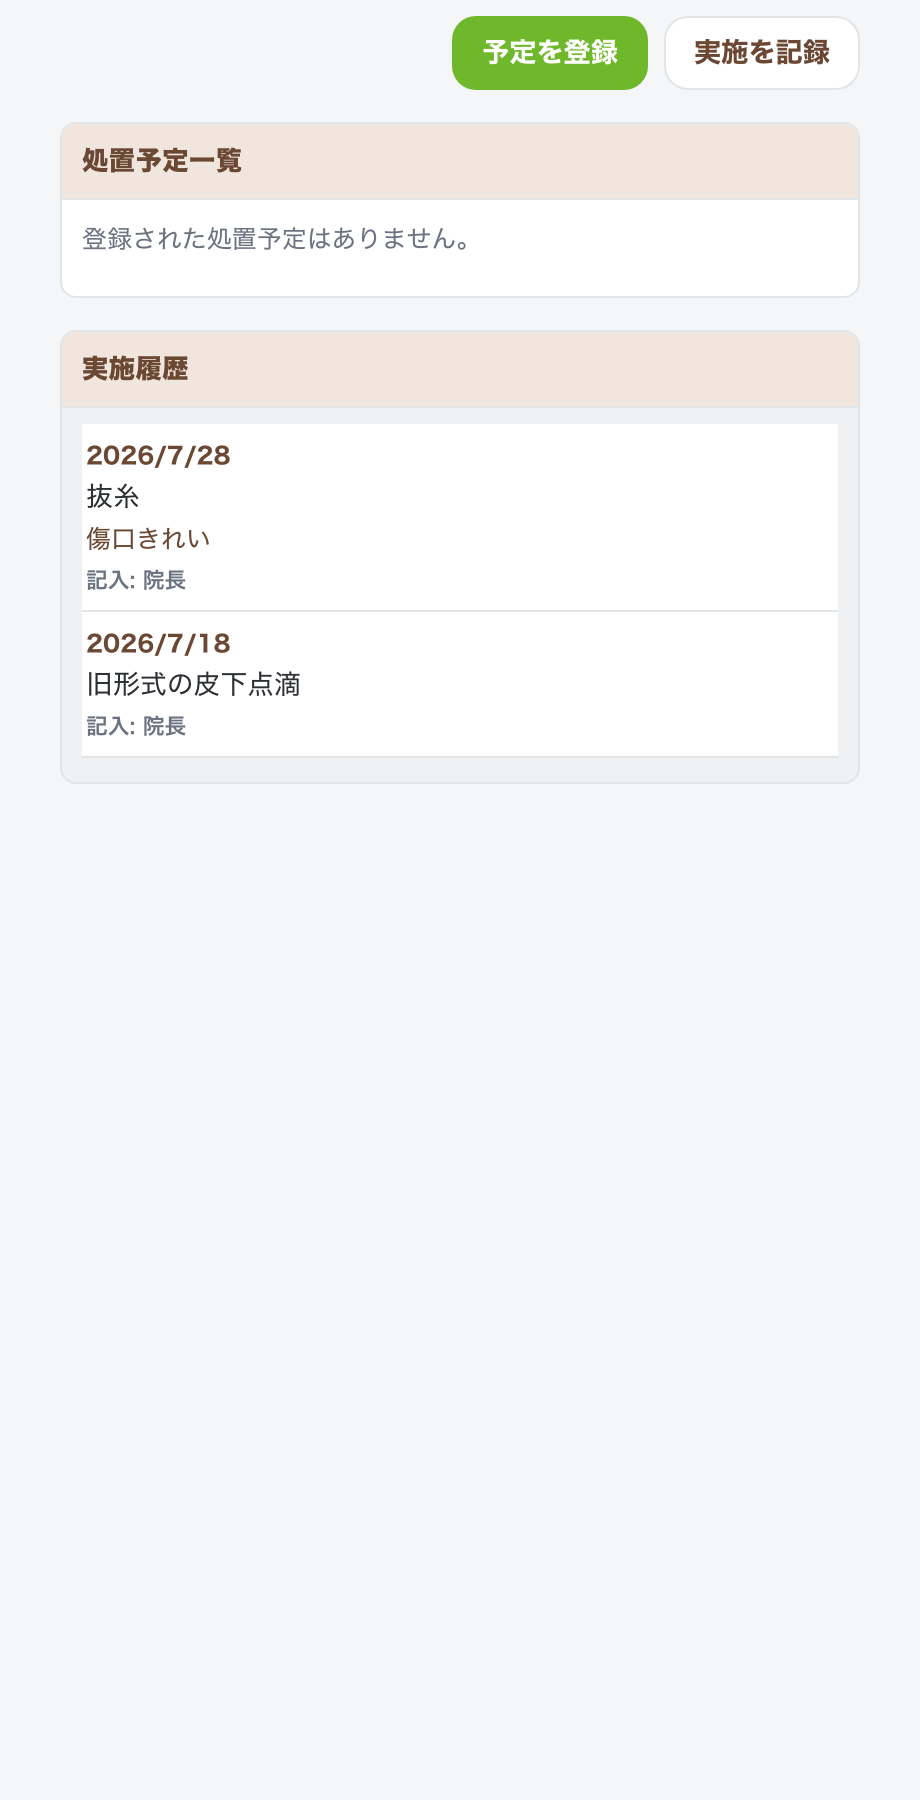
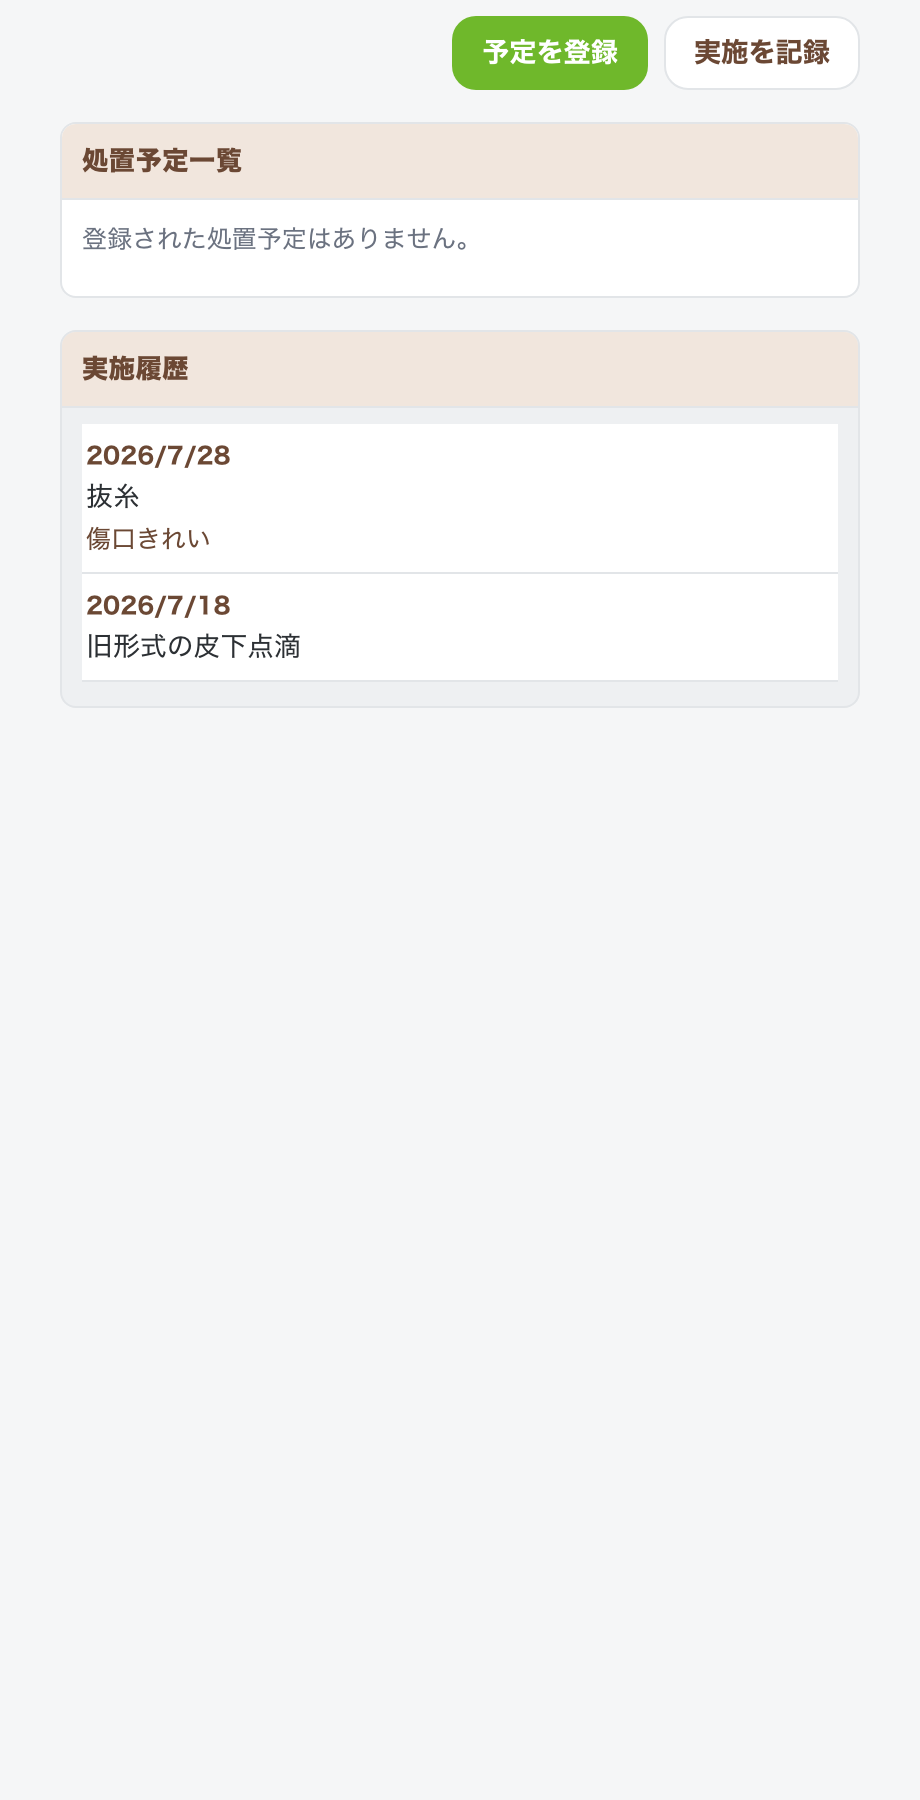
処置の実施記録から記入者の選択・保存をやめる。

Changed region(s): [[0.0913, 0.3111, 0.3348, 0.4044]]

diff --git a/js/procedures-ui.js b/js/procedures-ui.js
@@ -19,11 +19,6 @@ import {
 } from "./exam-plan-ui.js";
 import { enableRowGestures } from "./row-gestures.js";
 
-const AUTHORS = [
-  "院長", "大辻", "川邉", "齋藤", "横井", "德永",
-  "種田", "竹内", "神子島", "大澤", "川合", "嶋本", "道野",
-];
-
 const DAYS_PER_MONTH = 30;
 const DAYS_PER_WEEK = 7;
 const INTERVAL_UNITS = [
@@ -36,7 +31,6 @@ let deps = {
   showToast: () => {},
   showError: () => {},
   setBusy: () => {},
-  getSelectedAuthor: () => "",
 };
 
 const state = {
@@ -47,7 +41,6 @@ const state = {
   editingHistoryId: null,
   editingHistoryStore: "history",
   editingPlanId: null,
-  modalAuthor: "",
   syncingDueFromRelative: false,
   dueRelativeUnit: "day",
   dueRelativeValue: 0,
@@ -81,8 +74,6 @@ const histModalTitle = document.getElementById("procedure-modal-title");
 const histDate = document.getElementById("procedure-date");
 const histContent = document.getElementById("procedure-content");
 const histNote = document.getElementById("procedure-note");
-const histAuthorRow = document.getElementById("procedure-author-row");
-const histAuthorHint = document.getElementById("procedure-author-hint");
 const histError = document.getElementById("procedure-error");
 const btnHistSave = document.getElementById("btn-procedure-save");
 const btnHistCancel = document.getElementById("btn-procedure-cancel");
@@ -102,13 +93,6 @@ function ymdFromStr(dateStr) {
   const [y, m, d] = dateStr.split("-");
   if (!y || !m || !d) return dateStr;
   return `${y}/${Number(m)}/${Number(d)}`;
-}
-
-function mdhmFromIso(iso) {
-  if (!iso) return "";
-  const d = new Date(iso);
-  if (Number.isNaN(d.getTime())) return "";
-  return `${d.getMonth() + 1}/${d.getDate()} ${d.getHours()}:${pad2(d.getMinutes())}`;
 }
 
 function parseDateStr(dateStr) {
@@ -144,7 +128,6 @@ function dueLevelClass(level) {
 
 export function initProceduresUI(helpers = {}) {
   deps = { ...deps, ...helpers };
-  buildAuthorButtons();
   buildPlanDueRelativeUI();
 
   btnPlanAdd?.addEventListener("click", () => openPlanModal("create"));
@@ -295,18 +278,6 @@ function createHistoryCard(item) {
     noteEl.textContent = item.note;
     li.appendChild(noteEl);
   }
-
-  const meta = document.createElement("p");
-  meta.className = "proc-card__meta";
-  const parts = [];
-  if (item.confirmedBy) parts.push(`記入: ${item.confirmedBy}`);
-  if (item.lastEditedAt) {
-    const when = mdhmFromIso(item.lastEditedAt);
-    const by = item.lastEditedBy ? `・${item.lastEditedBy}` : "";
-    parts.push(`最終編集 ${when}${by}`);
-  }
-  meta.textContent = parts.join("　／　");
-  li.appendChild(meta);
 
   enableRowGestures(li, {
     actions: [
@@ -619,13 +590,11 @@ async function handleCompletePlan(plan) {
     `「${label}」を完了として実施履歴に移しますか？\n実施日は本日（${ymdFromStr(todayStr())}）になります。`
   );
   if (!ok) return;
-  const author = deps.getSelectedAuthor() || plan.confirmedBy || "";
   try {
     await completeProcedurePlan(state.karteNumber, plan.id, {
       date: todayStr(),
       content: plan.content || "",
       note: plan.note || "",
-      confirmedBy: author,
     });
     deps.showToast("完了として実施履歴に移しました。");
     closePlanModal();
@@ -681,7 +650,6 @@ async function handleRevive(item) {
     const planId = await reviveProcedurePlan(state.karteNumber, {
       content: item.content || "",
       note: item.note || "",
-      confirmedBy: item.confirmedBy || "",
     });
     deps.showToast("予定に戻しました。予定日を入力してください。");
     // 購読反映後に編集を開く
@@ -702,35 +670,10 @@ async function handleRevive(item) {
 
 // --- 実施履歴モーダル ----------------------------------------------------
 
-function buildAuthorButtons() {
-  if (!histAuthorRow) return;
-  histAuthorRow.innerHTML = "";
-  AUTHORS.forEach((name) => {
-    const btn = document.createElement("button");
-    btn.type = "button";
-    btn.className = "author-btn";
-    btn.textContent = name;
-    btn.dataset.author = name;
-    btn.addEventListener("click", () => {
-      state.modalAuthor = name;
-      renderAuthorSelection();
-      deps.showError(histError, "");
-    });
-    histAuthorRow.appendChild(btn);
-  });
-}
-
-function renderAuthorSelection() {
-  histAuthorRow?.querySelectorAll(".author-btn").forEach((btn) => {
-    btn.classList.toggle("is-selected", btn.dataset.author === state.modalAuthor);
-  });
-}
-
 function openHistModal(mode, item = null) {
   state.editingHistoryId = mode === "edit" && item ? item.id : null;
   state.editingHistoryStore =
     mode === "edit" && item ? item.store || "history" : "history";
-  const selected = deps.getSelectedAuthor() || "";
 
   if (histModalTitle) {
     histModalTitle.textContent =
@@ -740,21 +683,6 @@ function openHistModal(mode, item = null) {
   if (histContent) histContent.value = item?.content || "";
   if (histNote) histNote.value = item?.note || "";
 
-  if (mode === "edit") {
-    state.modalAuthor = selected || item?.lastEditedBy || item?.confirmedBy || "";
-    if (histAuthorHint) {
-      histAuthorHint.textContent = "この編集を行った人を選択してください。";
-    }
-  } else {
-    state.modalAuthor = selected;
-    if (histAuthorHint) {
-      histAuthorHint.textContent = selected
-        ? `中央カラムで選択中の記入者「${selected}」を初期値にしています。必要なら変更できます。`
-        : "記入者を選択してください（中央カラムで選択済みなら自動で入ります）。";
-    }
-  }
-
-  renderAuthorSelection();
   deps.showError(histError, "");
   if (btnHistSave) btnHistSave.textContent = mode === "edit" ? "保存する" : "追加する";
   if (histModal) histModal.hidden = false;
@@ -764,7 +692,6 @@ function openHistModal(mode, item = null) {
 function closeHistModal() {
   state.editingHistoryId = null;
   state.editingHistoryStore = "history";
-  state.modalAuthor = "";
   if (histModal) histModal.hidden = true;
   deps.showError(histError, "");
 }
@@ -773,7 +700,6 @@ async function handleHistSave() {
   const date = histDate?.value || "";
   const content = (histContent?.value || "").trim();
   const note = (histNote?.value || "").trim();
-  const author = state.modalAuthor || deps.getSelectedAuthor() || "";
 
   if (!date) {
     deps.showError(histError, "実施日を選択してください。");
@@ -781,10 +707,6 @@ async function handleHistSave() {
   }
   if (!content) {
     deps.showError(histError, "処置内容を入力してください。");
-    return;
-  }
-  if (!author) {
-    deps.showError(histError, "記入者（編集者）を選択してください。");
     return;
   }
   if (!state.karteNumber) {
@@ -801,7 +723,7 @@ async function handleHistSave() {
       await updateProcedure(
         state.karteNumber,
         state.editingHistoryId,
-        { date, content, note, editedBy: author },
+        { date, content, note },
         { store: state.editingHistoryStore }
       );
       closeHistModal();
@@ -811,7 +733,6 @@ async function handleHistSave() {
         date,
         content,
         note,
-        confirmedBy: author,
         source: "manual",
       });
       closeHistModal();

diff --git a/js/db.js b/js/db.js
@@ -71,7 +71,7 @@
 //   procedures/{カルテ番号}/plans/{planId}               … 処置予定
 //     { content, dueDate, baselineDate, note, source?, confirmedBy? }
 //   procedures/{カルテ番号}/history/{entryId}            … 実施履歴
-//     { schemaVersion, date, content, note, confirmedBy, lastEditedAt?, lastEditedBy?, source }
+//     { schemaVersion, date, content, note, lastEditedAt?, source }
 //   procedures/{カルテ番号}/{entryId}                    … 旧形式の実施履歴（互換。history へは移さず読む）
 //
 //   specialNotes/{カルテ番号}/{entryId}/schemaVersion    … 特記事項（恒常的な注意）
@@ -2446,7 +2446,7 @@ export async function reviveProcedurePlan(
 export async function completeProcedurePlan(
   karteNumber,
   planId,
-  { date, note, confirmedBy, content }
+  { date, note, content }
 ) {
   await authReady;
   if (!planId) throw new Error("planId が必要です");
@@ -2454,7 +2454,6 @@ export async function completeProcedurePlan(
     date,
     content,
     note,
-    confirmedBy,
     source: "manual",
   });
   await deleteProcedurePlan(karteNumber, planId);
@@ -2466,7 +2465,7 @@ export async function completeProcedurePlan(
  */
 export async function addProcedure(
   karteNumber,
-  { date, content, confirmedBy, note = "", source = "manual" }
+  { date, content, note = "", source = "manual" }
 ) {
   await authReady;
   const newRef = push(procedureHistoryRef(karteNumber));
@@ -2475,9 +2474,7 @@ export async function addProcedure(
     date: date || "",
     content: content || "",
     note: note || "",
-    confirmedBy: confirmedBy || "",
     lastEditedAt: "",
-    lastEditedBy: "",
     source: source === "ai" ? "ai" : "manual",
   });
   return newRef.key;
@@ -2490,7 +2487,7 @@ export async function addProcedure(
 export async function updateProcedure(
   karteNumber,
   entryId,
-  { date, content, note, editedBy },
+  { date, content, note },
   { store = "history" } = {}
 ) {
   await authReady;
@@ -2503,7 +2500,6 @@ export async function updateProcedure(
     date: date || "",
     content: content || "",
     lastEditedAt: new Date().toISOString(),
-    lastEditedBy: editedBy || "",
   };
   if (note !== undefined) patch.note = note || "";
   await update(target, patch);

diff --git a/scripts/mock-db-procedures.js b/scripts/mock-db-procedures.js
@@ -103,13 +103,12 @@ export async function reviveProcedurePlan(_karte, { content, note = "", confirme
 export async function completeProcedurePlan(
   karte,
   planId,
-  { date, note, confirmedBy, content }
+  { date, note, content }
 ) {
   const id = await addProcedure(karte, {
     date,
     content,
     note,
-    confirmedBy,
     source: "manual",
   });
   await deleteProcedurePlan(karte, planId);
@@ -118,7 +117,7 @@ export async function completeProcedurePlan(
 
 export async function addProcedure(
   _karte,
-  { date, content, confirmedBy, note = "", source = "manual" }
+  { date, content, note = "", source = "manual" }
 ) {
   const id = nextId("hist");
   store.history[id] = {
@@ -126,9 +125,7 @@ export async function addProcedure(
     date: date || "",
     content: content || "",
     note: note || "",
-    confirmedBy: confirmedBy || "",
     lastEditedAt: "",
-    lastEditedBy: "",
     source: source === "ai" ? "ai" : "manual",
   };
   emit();
@@ -138,7 +135,7 @@ export async function addProcedure(
 export async function updateProcedure(
   _karte,
   entryId,
-  { date, content, note, editedBy },
+  { date, content, note },
   { store: storeKind = "history" } = {}
 ) {
   const bag = storeKind === "legacy" ? store.legacy : store.history;
@@ -150,7 +147,6 @@ export async function updateProcedure(
     content: content || "",
     note: note !== undefined ? note || "" : cur.note || "",
     lastEditedAt: new Date().toISOString(),
-    lastEditedBy: editedBy || "",
   };
   emit();
 }

diff --git a/index.html b/index.html
@@ -1434,11 +1434,6 @@
           autocomplete="off"
         />
       </div>
-      <div class="field">
-        <span class="label">記入者 / 編集者</span>
-        <p class="field__note" id="procedure-author-hint"></p>
-        <div class="author-row" id="procedure-author-row"></div>
-      </div>
       <p id="procedure-error" class="error-text" role="alert" hidden></p>
     </div>
     <div class="modal__footer">

diff --git a/service-worker.js b/service-worker.js
@@ -8,7 +8,7 @@
 //
 // ※ CACHE_VERSION を上げるときは js/app-version.js の APP_VERSION / CACHE_LABEL も合わせて更新する。
 
-const CACHE_VERSION = "v132";
+const CACHE_VERSION = "v133";
 const CACHE_NAME = `nyuta-karte-log-${CACHE_VERSION}`;
 
 const APP_SHELL_FILES = [

diff --git a/js/ai-suggest-ui.js b/js/ai-suggest-ui.js
@@ -1026,7 +1026,6 @@ async function applySuggestion(suggestion, data) {
     await addProcedureFromExternal(karte, {
       date: data.date || recordDate,
       content: data.content || suggestion.summary,
-      confirmedBy: author,
       source: "ai",
     });
     return;

diff --git a/js/app-version.js b/js/app-version.js
@@ -1,3 +1,3 @@
 // アプリの表示用バージョン。Service Worker の CACHE_VERSION と合わせて更新する。
-export const APP_VERSION = "1.9.89";
-export const CACHE_LABEL = "v132";
+export const APP_VERSION = "1.9.90";
+export const CACHE_LABEL = "v133";

diff --git a/js/app.js b/js/app.js
@@ -1510,7 +1510,6 @@ initProceduresUI({
   showToast,
   showError,
   setBusy,
-  getSelectedAuthor: () => state.draft.author || state.lastAuthor || "",
 });
 
 initSpecialNotesUI({
